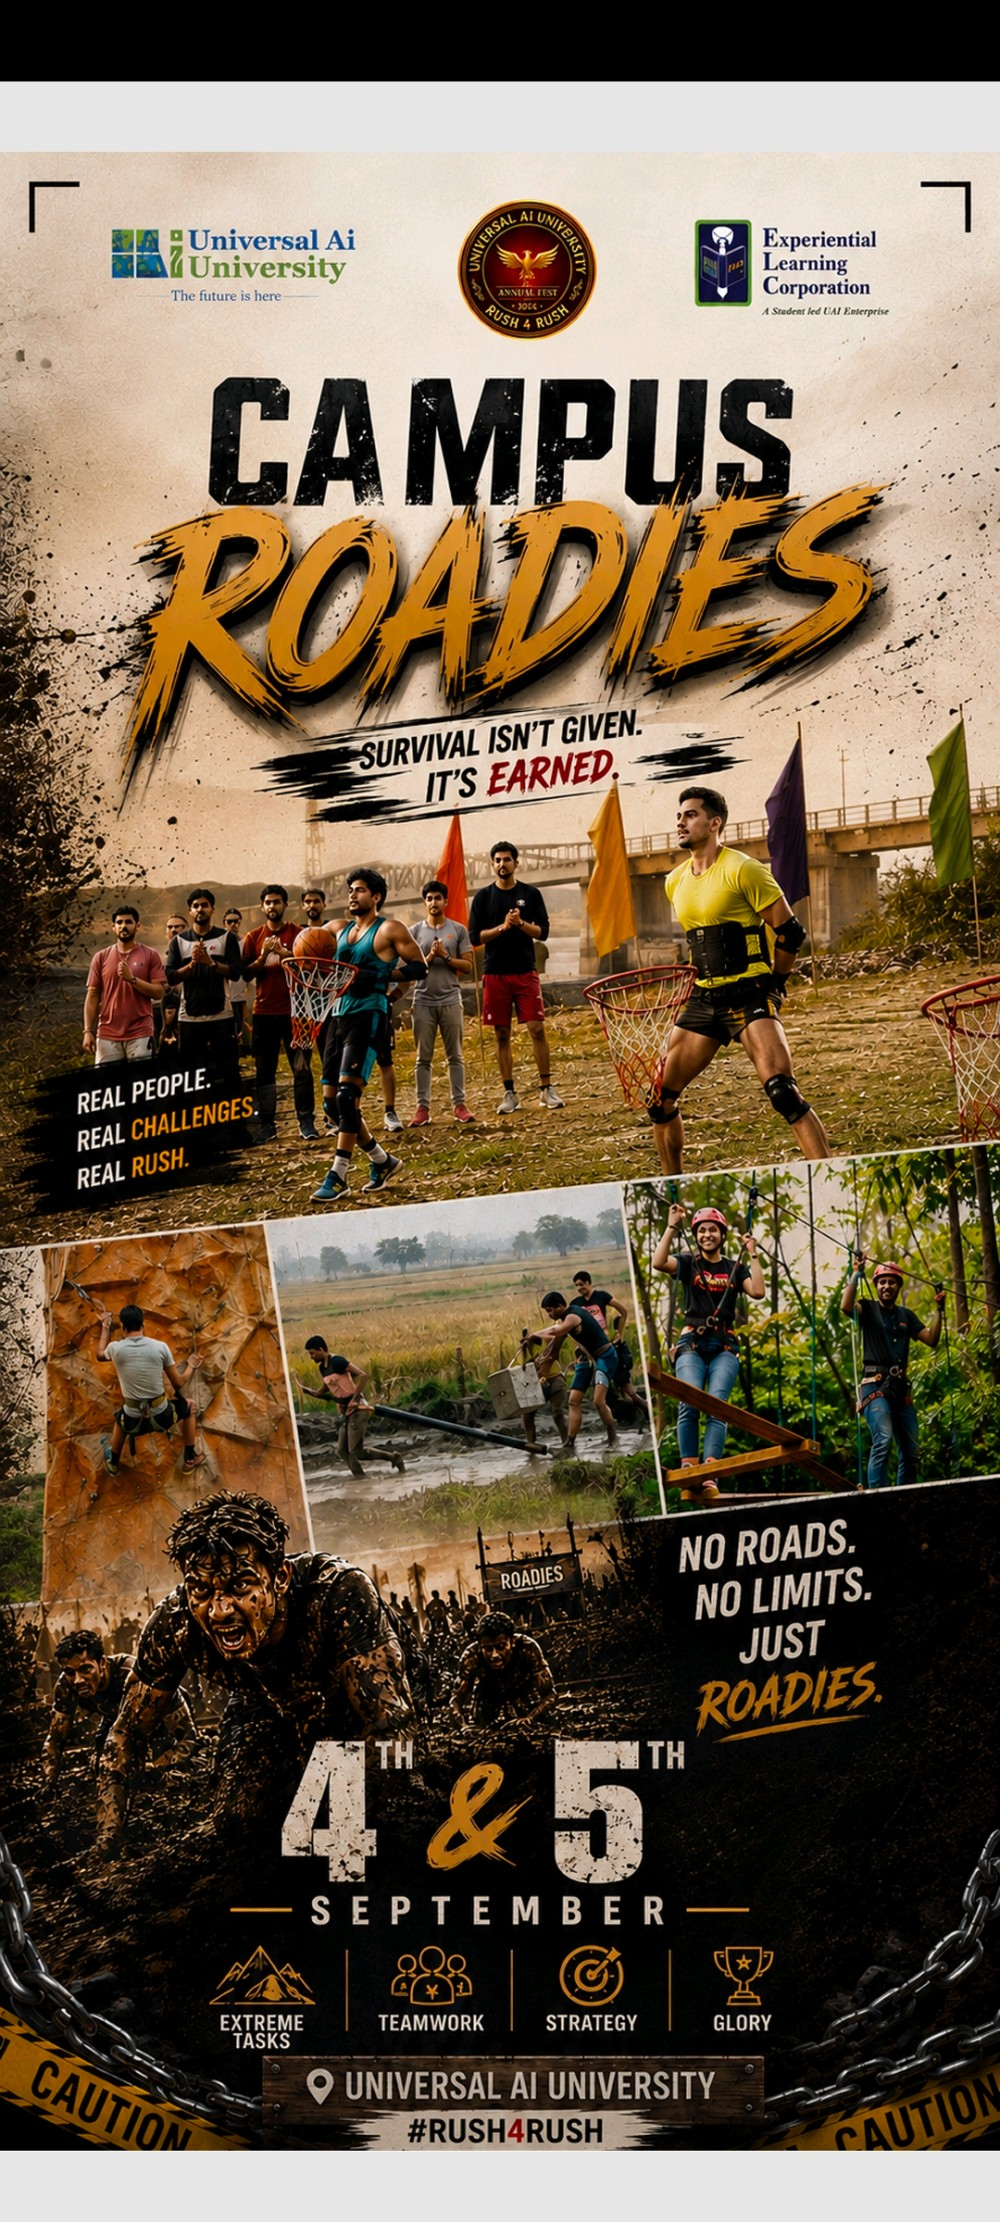
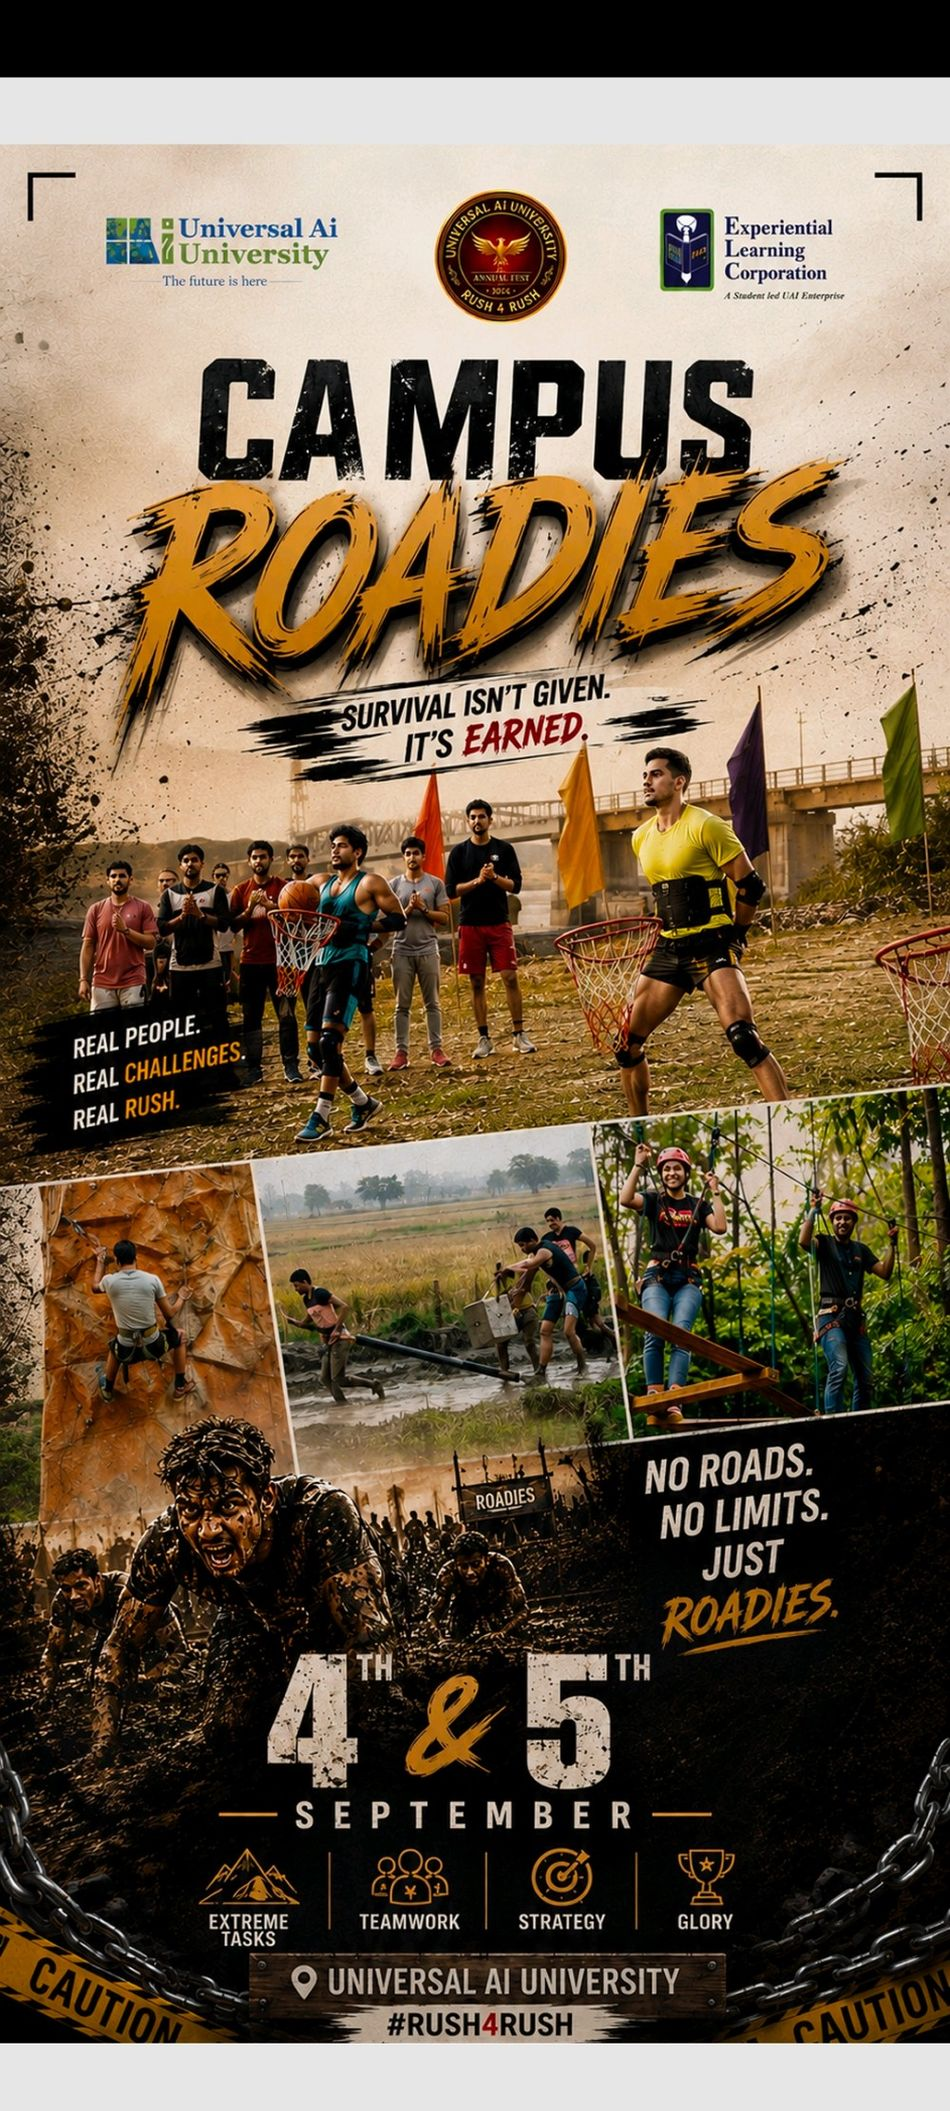
compression going on

diff --git a/app/page.tsx b/app/page.tsx
@@ -9,17 +9,17 @@ import { useAuth } from "@/components/auth-provider";
 
 const gallery = [
   {
-    src: "/gallery/r4r-crowd.png",
+    src: "/gallery/r4r-crowd.webp",
     alt: "Festival crowd under neon lights",
     className: "gallery-wide",
   },
   {
-    src: "/gallery/r4r-stage.png",
+    src: "/gallery/r4r-stage.webp",
     alt: "Performer on the R4R stage",
     className: "gallery-tall",
   },
   {
-    src: "/gallery/r4r-installation.png",
+    src: "/gallery/r4r-installation.webp",
     alt: "Students at a digital art installation",
     className: "gallery-mid",
   },
@@ -46,7 +46,7 @@ function MerchPopup({ onClose }: { onClose: () => void }) {
         </button>
         <div className="modal-image">
           <Image
-            src="/merch/r4r-polo-collage.png"
+            src="/merch/r4r-polo-collage.webp"
             alt="R4R polos for all three schools"
             fill
             sizes="(max-width: 700px) 90vw, 400px"

diff --git a/data/merch.ts b/data/merch.ts
@@ -23,7 +23,7 @@ export const merch: MerchProduct[] = [
     sizes: ["M", "L", "XL"],
     description:
       "Black polo with orange tipping, school crest on the chest and the Rush4Rush seal across the back.",
-    image: "/merch/r4r-polo-music.png",
+    image: "/merch/r4r-polo-music.webp",
   },
   {
     id: "r4r-polo-ai",
@@ -35,7 +35,7 @@ export const merch: MerchProduct[] = [
     sizes: ["M", "L", "XL"],
     description:
       "Orange polo with the university crest on the chest and the Rush4Rush seal across the back.",
-    image: "/merch/r4r-polo-ai.png",
+    image: "/merch/r4r-polo-ai.webp",
   },
   {
     id: "r4r-polo-psych",
@@ -47,7 +47,7 @@ export const merch: MerchProduct[] = [
     sizes: ["M", "L", "XL"],
     description:
       "Royal blue polo with the university crest on the chest and the Rush4Rush seal across the back.",
-    image: "/merch/r4r-polo-psych.png",
+    image: "/merch/r4r-polo-psych.webp",
   },
 ];
 

diff --git a/data/departments.ts b/data/departments.ts
@@ -17,14 +17,14 @@ export const photos: Record<string, string> = {
   "Bhavana Ajith": "/team/Bhavana_Ajith.jpg",
   "Anchal Pandey": "/team/Anchal_Pandey.jpg",
   "Adarsh Nema": "/team/Adarsh.jpg",
-  "Pearl Choudhary": "/team/Pearl_new.png",
-  "Gun Gupta": "/team/Gun_Gupta.png",
+  "Pearl Choudhary": "/team/Pearl_new.webp",
+  "Gun Gupta": "/team/Gun_Gupta.webp",
   "Abhishek Kumar": "/team/Vivan.jpg",
   Sarthak: "/team/Sarthak.jpg",
   "Yash Pardeshi": "/team/Yash_Pardeshi.jpg",
-  "Vallab Dixit": "/team/Vallabh_Dixit.png",
+  "Vallab Dixit": "/team/Vallabh_Dixit.webp",
   "Ratnadeep Patil": "/team/Ratnadeep_Patil.webp",
-  Mandvi: "/team/Mandvi_Singh_Baghel.jpg",
+  "Mandvi Singh Baghel": "/team/Mandvi_Singh_Baghel.jpg",
   "Mahi Vashisht": "/team/Mahi_Vashisht.jpg",
   "Harshita Kumar": "/team/Harshita_Kumar.jpg",
 };
